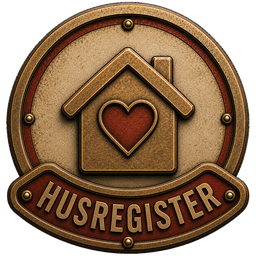
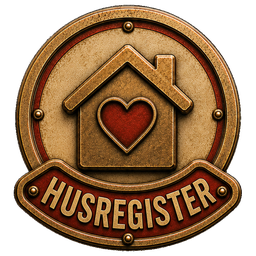
lk

diff --git a/index.html b/index.html
@@ -350,14 +350,11 @@ body{
    ?v-nummer i fem HTML-filer. Den flyttes naar neste side gaas gjennom -
    da bumpes versjonen én gang for alle. */
 .neam-femmer .neam-terning.doed{ display:none; }
-/* Inne i Huset er det bare én ting man vil: ut igjen. Da staar krysset
-   der merket sto, og haandtaket lukker med ett trykk i stedet for aa
-   aapne en femmer med ett valg i. */
-.neam-handtak.lukk{
-  background:var(--paper); box-shadow:0 4px 14px rgba(44,62,80,.28);
-  border-radius:50%; align-items:center; color:var(--ink-soft);
-}
-.neam-handtak.lukk svg{ width:24px; height:24px; }
+/* Inne i Huset er det bare én ting man vil: ut igjen. Da staar
+   Avbryt-merket der Innstillinger sto, og haandtaket lukker med ett trykk
+   i stedet for aa aapne en femmer med ett valg i.
+   Samme stil som .eget - det er samme knapp med et annet merke, ikke en
+   annen slags knapp. */
 
 /* ---------- Huset som egen visning ----------
    Registeret laa i et sammenklappet panel paa forsiden. Fem tekstbokser
@@ -1145,8 +1142,9 @@ window.neamBakgrunn = async function(){
    filnavnet endret seg, og nettleseren serverte da den gamle versjonen fra
    cache - samme felle som brente versjonsnumrene for fellesfilene. Bumpes
    naar bildet endres. */
-const MERKE_INNSTILLINGER = '/bilder/merke-innstillinger.png?v=2';
-const MERKE_HUSREGISTER   = '/bilder/merke-husregister.png?v=2';
+const MERKE_INNSTILLINGER = '/bilder/merke-innstillinger.png?v=3';
+const MERKE_HUSREGISTER   = '/bilder/merke-husregister.png?v=3';
+const MERKE_AVBRYT        = '/bilder/merke-avbryt.png?v=3';
 
 function husHandtak(inne){
   const h = document.getElementById('neamSideHandtak');
@@ -1160,14 +1158,11 @@ function husHandtak(inne){
   }
 
   if(!h) return;
-  h.classList.toggle('lukk', !!inne);
-  h.classList.toggle('eget', !inne);
+  h.classList.add('eget');
   if(inne){
-    h.innerHTML = '<svg viewBox="0 0 24 24" fill="none" stroke="currentColor" '
-                + 'stroke-width="2.2" stroke-linecap="round" stroke-linejoin="round">'
-                + '<path d="M18 6 6 18M6 6l12 12"/></svg>';
+    h.innerHTML = '<img src="' + MERKE_AVBRYT + '" alt="">';
     h.onclick = lukkHus;
-    h.title = 'Lukk huset';
+    h.title = 'Avbryt';
     h.setAttribute('aria-label', 'Lukk huset');
   }else{
     h.innerHTML = '<img src="' + MERKE_INNSTILLINGER + '" alt="">';
